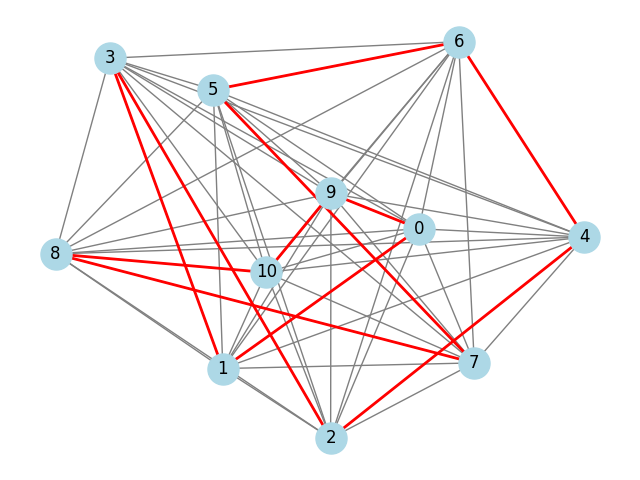
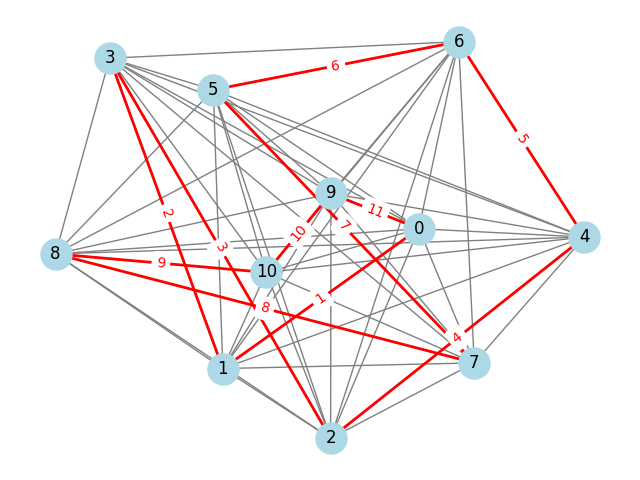
fix: adding new instance

diff --git a/src/solver/README.md b/src/solver/README.md
@@ -2,3 +2,8 @@
 
 
 The Variable Neighborhood Search (VNS) is a metaheuristic method designed to find approximate solutions to combinatorial optimization problems. Instead of remaining confined to a singular neighborhood during the search process, VNS ventures out, systematically exploring various neighborhood structures. This dynamic methodology is key to VNS’s ability to avoid local optima and strive towards global optima.
+
+## Selected instances 
+
+As we are based on the paper to replicate experiments, Reactive Search strategies using Reinforcement Learning, local search
+algorithms and Variable Neighborhood Search, 
